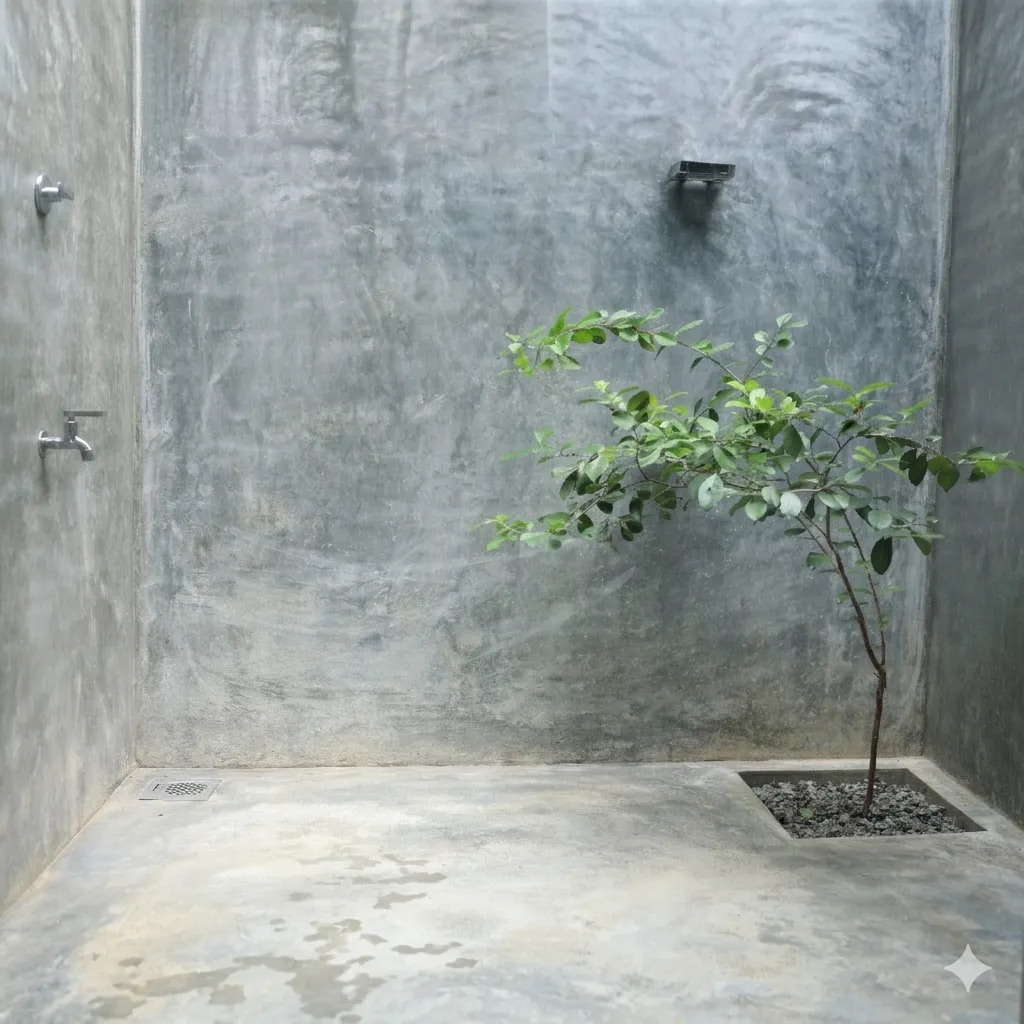
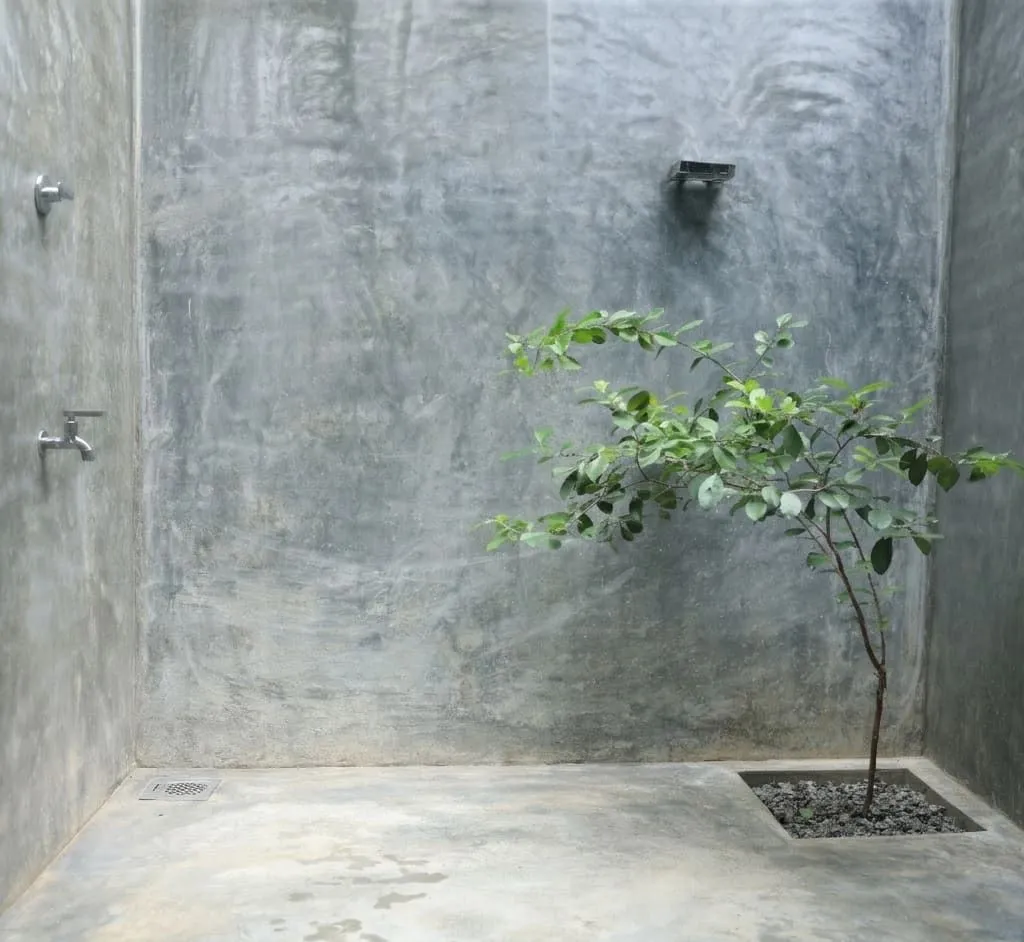
rooms: hide Gemini sparkle on bath-clean — crop bottom 8% + anchor top
Two-step fix:
1. Cropped the source from 1024x1024 → 1024x942 to permanently remove
   the Gemini sparkle in the bottom-right corner. Composition still reads:
   shower controls left, sapling right, stone bed at floor.
2. Added object-position: center top on the slide so any future aspect
   ratio change still favors the upper portion.

diff --git a/rooms.html b/rooms.html
@@ -154,7 +154,7 @@
           <div class="slide"><picture><source srcset="photos/cottage-5.webp" type="image/webp"><img src="photos/cottage-5.jpg" alt="Sitting area with wardrobe rack and warm wall lamp" loading="lazy" decoding="async" /></picture></div>
           <div class="slide"><picture><source srcset="photos/cottage-6.webp" type="image/webp"><img src="photos/cottage-6.jpg" alt="Velvet armchairs seen from the foot of the bed" loading="lazy" decoding="async" /></picture></div>
           <div class="slide"><picture><source srcset="photos/cottage-7.webp" type="image/webp"><img src="photos/cottage-7.jpg" alt="Inside the cottage — bedroom and seating area" loading="lazy" decoding="async" /></picture></div>
-          <div class="slide"><picture><source srcset="photos/bath-clean.webp" type="image/webp"><img src="photos/bath-clean.jpg" alt="Open-air shower — concrete walls, a young tree growing from a stone bed in the floor" loading="lazy" decoding="async" /></picture></div>
+          <div class="slide"><picture><source srcset="photos/bath-clean.webp" type="image/webp"><img src="photos/bath-clean.jpg" alt="Open-air shower — concrete walls, a young tree growing from a stone bed in the floor" loading="lazy" decoding="async" style="object-position: center top;" /></picture></div>
           <div class="slide"><picture><source srcset="photos/bath-2.webp" type="image/webp"><img src="photos/bath-2.jpg" alt="The cottage bathroom" loading="lazy" decoding="async" /></picture></div>
           <div class="slide"><picture><source srcset="photos/bath-3.webp" type="image/webp"><img src="photos/bath-3.jpg" alt="The cottage bathroom" loading="lazy" decoding="async" /></picture></div>
           <div class="slide"><picture><source srcset="photos/bath-4.webp" type="image/webp"><img src="photos/bath-4.jpg" alt="The cottage bathroom" loading="lazy" decoding="async" /></picture></div>